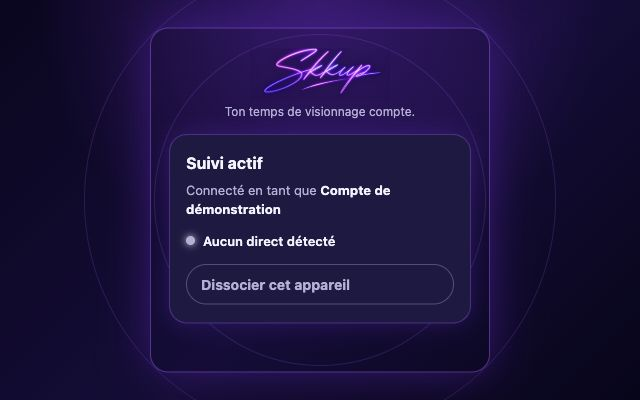
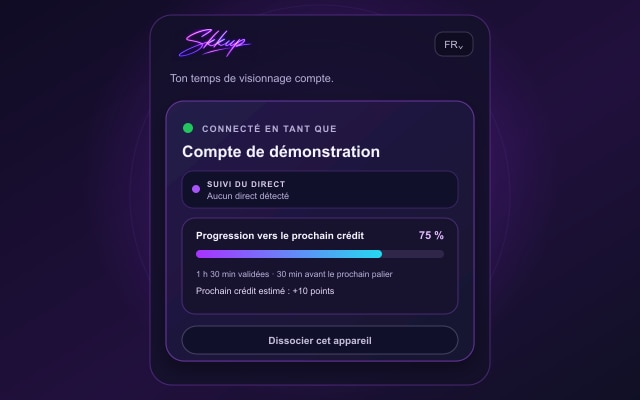
feat(extension): prepare Chrome Store release 0.2.0

Changed region(s): [[0.1875, 0.0, 0.8125, 0.96]]

diff --git a/extension/README.md b/extension/README.md
@@ -126,11 +126,30 @@ Les captures promotionnelles sont conservées dans `../frontend/assets/extension
 
 - `skuup-extension-association.jpg` : association d'un compte par code à durée
   limitée ;
-- `skuup-extension-suivi.jpg` : état associé et suivi prêt à détecter un direct.
+- `skuup-extension-suivi.jpg` : état associé et suivi prêt à détecter un direct,
+  avec la progression XP renvoyée par le serveur.
 
-Elles sont exportées en 640 × 400 px depuis un aperçu fidèle de la popup. Le
-pseudo « Compte de démonstration » signale explicitement l'état de présentation
-et ne correspond à aucun compte réel.
+Elles sont exportées en 640 × 400 px depuis un aperçu fidèle construit à partir
+des composants de la popup. Le nom « Compte de démonstration » et la progression
+sont fictifs; aucun code d'association actif ni compte réel n'apparaît dans les
+images.
+
+## Préparer une version Chrome Web Store
+
+La version de l'extension suit le champ `version` de `package.json` et est
+injectée dans le manifeste généré. Avant un téléversement, elle doit être
+strictement supérieure à la dernière version publiée dans le Chrome Web Store.
+Le paquet de production utilise l'API `https://api.skkup.fr` et contient
+uniquement le dossier `dist/` généré :
+
+```bash
+SKKUP_API_URL=https://api.skkup.fr npm run build
+rm -f Skkup-extension-v*.zip
+cd dist && zip -r -X ../Skkup-extension-v0.2.0.zip .
+```
+
+Relire le manifeste et le contenu du ZIP avant de le téléverser. Ne jamais y
+inclure `.env`, des jetons, ou la clé publique de test E2E.
 
 Le logo de la popup et les icônes du manifeste sont également centralisés dans
 `../frontend/assets/`. `npm run build` les copie dans `dist/`; les fichiers générés dans
